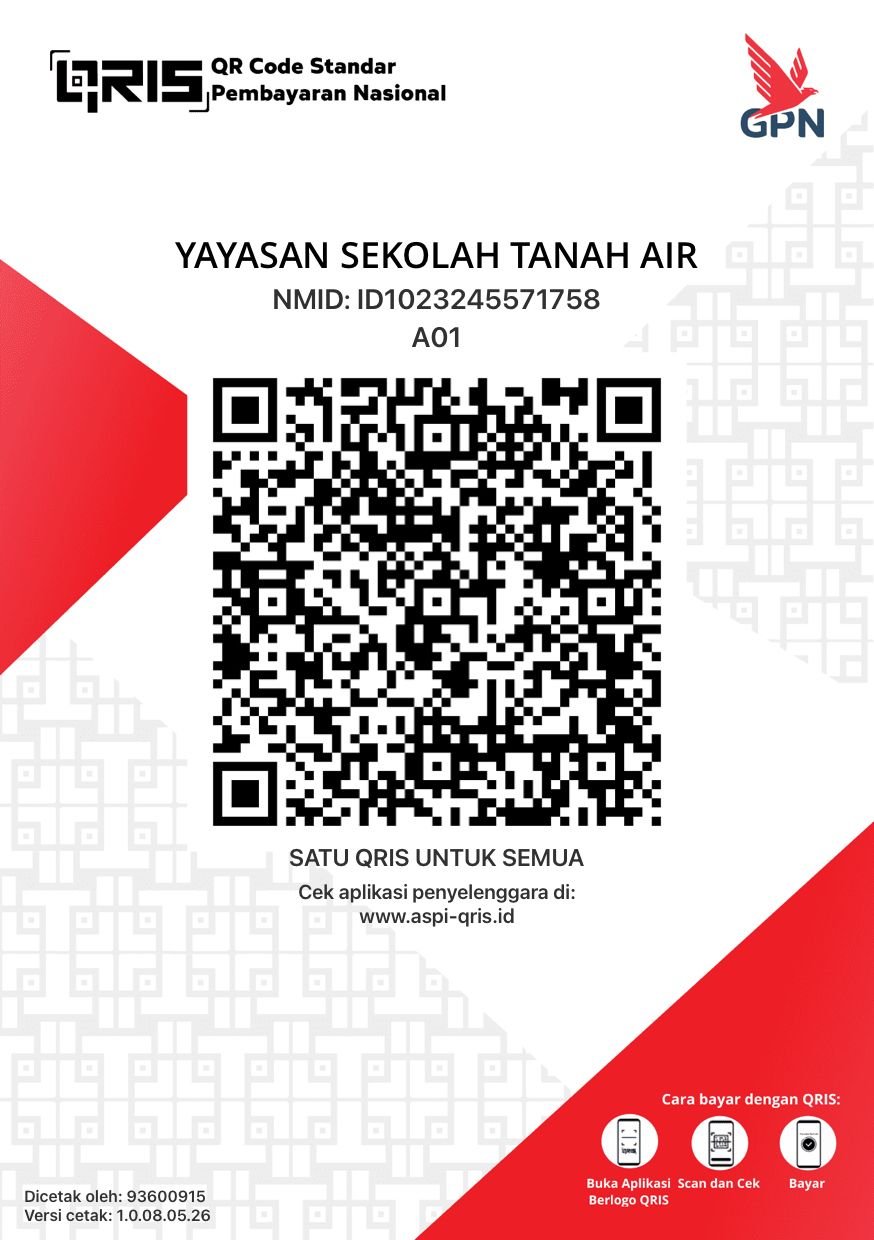
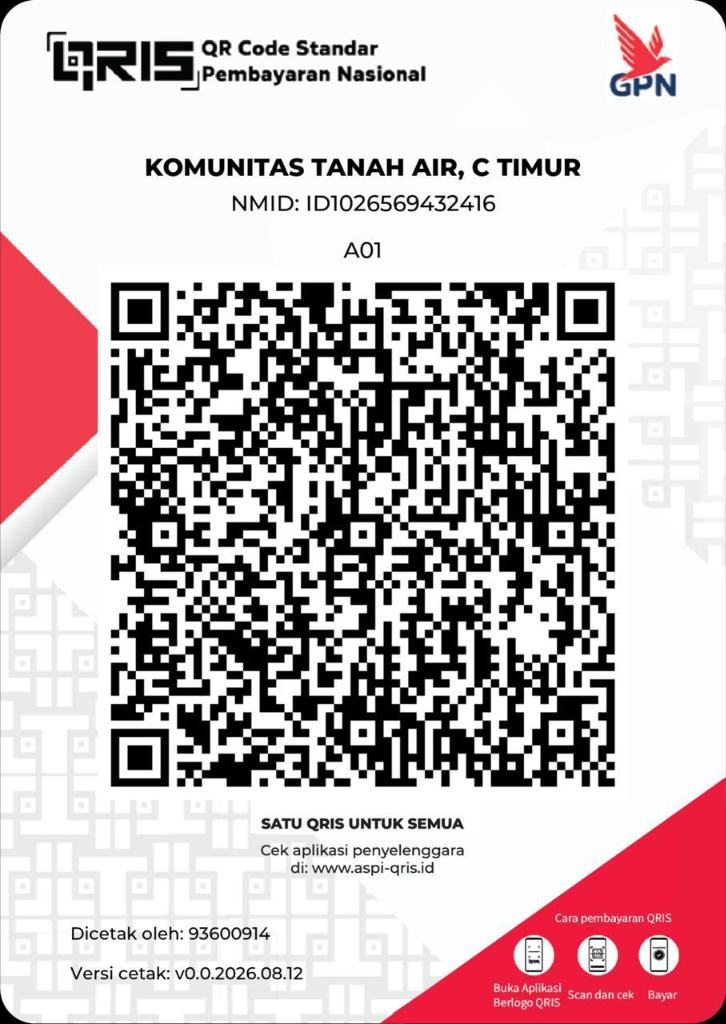
feat(qris): update default QRIS poster, raw string, and add auto-detect QR decoder in Admin Panel

diff --git a/src/lib/qris-decoder.ts b/src/lib/qris-decoder.ts
@@ -1,0 +1,52 @@
+import jsQR from 'jsqr';
+import { validateQrisRawString } from './qris';
+
+/**
+ * Decodes a QR code raw string from an uploaded image File using HTML Canvas and jsQR.
+ * Returns the decoded string if found and valid as QRIS, or null otherwise.
+ */
+export async function decodeQrisFromImageFile(file: File): Promise<string | null> {
+  if (!file.type.startsWith('image/')) return null;
+
+  return new Promise((resolve) => {
+    const reader = new FileReader();
+    reader.onload = (e) => {
+      const img = new Image();
+      img.onload = () => {
+        try {
+          const canvas = document.createElement('canvas');
+          const ctx = canvas.getContext('2d');
+          if (!ctx) {
+            resolve(null);
+            return;
+          }
+
+          canvas.width = img.naturalWidth || img.width;
+          canvas.height = img.naturalHeight || img.height;
+          ctx.drawImage(img, 0, 0);
+
+          const imageData = ctx.getImageData(0, 0, canvas.width, canvas.height);
+          const code = jsQR(imageData.data, imageData.width, imageData.height, {
+            inversionAttempts: 'dontInvert',
+          });
+
+          if (code?.data) {
+            const raw = code.data.trim();
+            const validation = validateQrisRawString(raw);
+            if (validation.valid) {
+              resolve(raw);
+              return;
+            }
+          }
+          resolve(null);
+        } catch {
+          resolve(null);
+        }
+      };
+      img.onerror = () => resolve(null);
+      img.src = e.target?.result as string;
+    };
+    reader.onerror = () => resolve(null);
+    reader.readAsDataURL(file);
+  });
+}

diff --git a/src/pages/admin/AdminTransactions.tsx b/src/pages/admin/AdminTransactions.tsx
@@ -1,5 +1,6 @@
 import { AlertCircle, CheckCircle, Clock, Eye, FileSpreadsheet, Loader2, Plus, QrCode, RefreshCw, Save, Search, Settings, Trash2, Upload, XCircle } from 'lucide-react';
 import { validateQrisRawString } from '../../lib/qris';
+import { decodeQrisFromImageFile } from '../../lib/qris-decoder';
 import { useEffect, useMemo, useRef, useState } from 'react';
 import AdminModal from '../../components/admin/AdminModal';
 import { useConfirmDialog } from '../../components/admin/ConfirmDialog';
@@ -256,7 +257,18 @@ export default function AdminTransactions() {
       setUploadingQris(true);
       const url = await uploadAdminImage(file, 'general');
       qrisSessionUploads.current.push(url);
-      setPaymentSettings((current) => ({ ...current, qris_image_url: url }));
+
+      const autoDetectedRawString = await decodeQrisFromImageFile(file);
+
+      setPaymentSettings((current) => ({
+        ...current,
+        qris_image_url: url,
+        ...(autoDetectedRawString ? { qris_raw_string: autoDetectedRawString } : {}),
+      }));
+
+      if (autoDetectedRawString) {
+        setNotice('Gambar QRIS berhasil diunggah dan QRIS Raw String terdeteksi otomatis!');
+      }
     } catch (uploadError) {
       logError('AdminTransactions.handleQrisUpload', uploadError);
       setError(uploadError instanceof Error ? uploadError.message : 'Gagal mengunggah QRIS.');

diff --git a/src/lib/payment-settings.ts b/src/lib/payment-settings.ts
@@ -27,7 +27,7 @@ export const DEFAULT_PAYMENT_SETTINGS: PaymentSettings = {
   gateway_enabled: false,
   active_gateway: null,
   qris_image_url: DEFAULT_QRIS_IMAGE_URL,
-  qris_raw_string: '',
+  qris_raw_string: '00020101021126610014COM.GO-JEK.WWW01189360091437086082890210G7086082890303UMI51440014ID.CO.QRIS.WWW0215ID10265694324160303UMI5204839853033605802ID5925Komunitas Tanah Air, C TI6007TANGSEL61051541262070703A016304C606',
   bank_accounts: [],
   manual_instructions: 'Unggah bukti pembayaran setelah transfer agar admin dapat memverifikasi donasi Anda.',
 };
